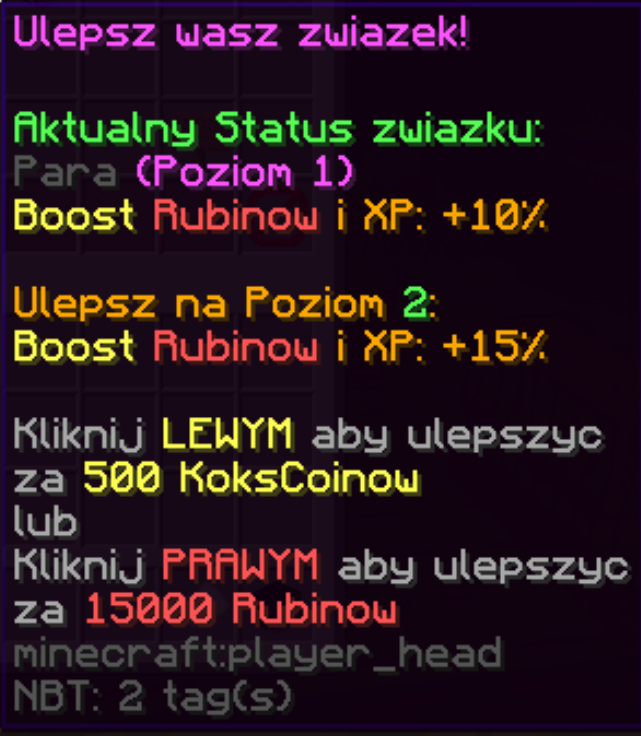
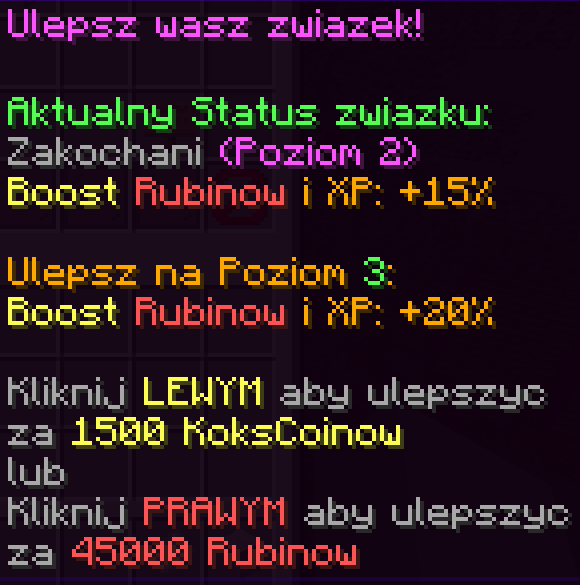
Added images

diff --git a/server/marriages.md b/server/marriages.md
@@ -1,17 +1,19 @@
 # Śluby
-Na naszym serwerze można zawrzeć ślub z innym graczem. Związek można ulepszać maksymalnie do 10 poziomu. Im wyższy level tym większy boost XP i rubinów otrzymujecie wraz ze swoją drugą połówką. 
+Na naszym serwerze można zawrzeć ślub z innym graczem. Związek można ulepszać maksymalnie do 10 poziomu. Im wyższy level tym większy boost XP i rubinów otrzymujecie wraz ze swoją drugą połówką.
 
 ![GUI ślubu](../assets/marriages/gui.png)
+
 ## Panel
 - Związek można ulepszyć za kokscoiny **lub** rubiny:
   - Aby ulepszyć związek za **kokscoiny** kliknij **lewym** przyciskiem myszy na główkę w GUI.
   - Aby ulepszyć związek za **rubiny** kliknij **prawym** przyciskiem myszy na główkę w GUI.
-  ZDJECIE
+![Ulepszenie związku](../assets/marriages/upgrade.png)
 - Aby wziąć rozwód kliknij **lewym** przyciskiem myszy na tabliczkę w GUI. Przed podjęciem ostatecznej decyzji zostaniesz poproszony o potwierdzenie.
-ZDJECIE  
+![Rozwód](../assets/marriages/divorce.png)
 - Aktualny status związku znajdziesz najeżdżając na główkę służącą do ulepszania ślubu.
-- Czas od ostatniego logowania się twojej miłości sprawdzisz najeżdżając na jej główkę w GUI. ZDJECIE
-  
+- Czas od ostatniego logowania się twojej miłości sprawdzisz najeżdżając na jej główkę w GUI.
+![Czas ostatniego logowania](../assets/marriages/last_seen.png)
+
 ## Komendy
 - Aby wziąć ślub użyj komendy **/slub zapros [nick]**.
 - Aby zaakceptować oświadczyny użyj komendy **/slub accept [nick]**.
@@ -19,7 +21,6 @@ ZDJECIE
 - Aby otworzyć panel ślubu będąc w związku użyj komendy **/slub**.
 
 ## Informacje o poziomach. 
-
 |**Poziom**|      **Nazwa**      |**Cena (kokscoiny)**|**Cena (rubiny)**|**Booster XP i rubinów**|
 |:--------:|:-------------------:|:------------------:|:---------------:|:----------------------:|
 |     1    |         Para        |        1 000       |        -        |           10%          |
@@ -34,5 +35,16 @@ ZDJECIE
 |    10    | Nieskończona miłość |        7 500       |     225 000     |           75%          |
 
 ## Kolory każdego poziomu ślubu. 
-Przed nickiem na liście graczy, na chacie i nad graczem pokazuje się serce w odpowiednim kolorze dla każdego poziomu ślubu. 
-ZDJECIE 
+Przed nickiem na liście graczy, na chacie i nad graczem pokazuje się serce w odpowiednim kolorze dla każdego poziomu ślubu.
+
+![Kolory poziomów](../assets/marriages/levels.png)
+
+## Kommunikaty na chacie
+Informacja o ślubie.
+![Komunikat chatu](../assets/marriages/chat_message1.png)
+
+Informacja o rozwodzie.
+![Komunikat chatu](../assets/marriages/chat_message2.png)
+
+Informacja o ulepszeniu związku.
+![Komunikat chatu](../assets/marriages/chat_message3.png)
